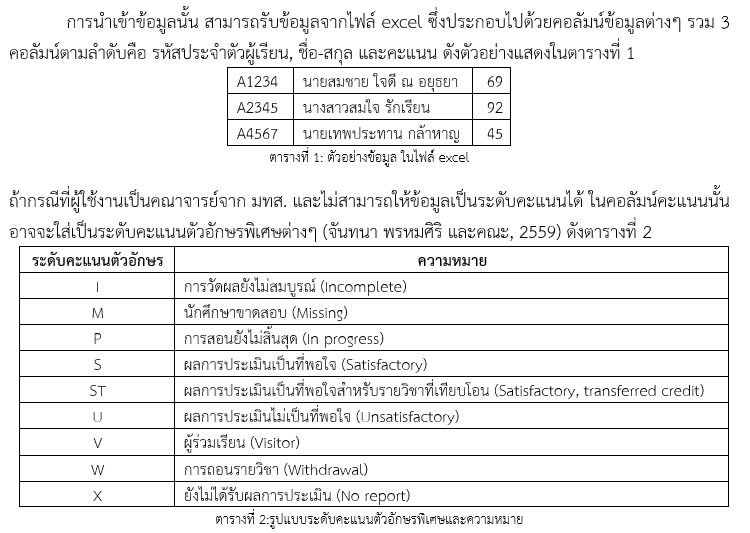
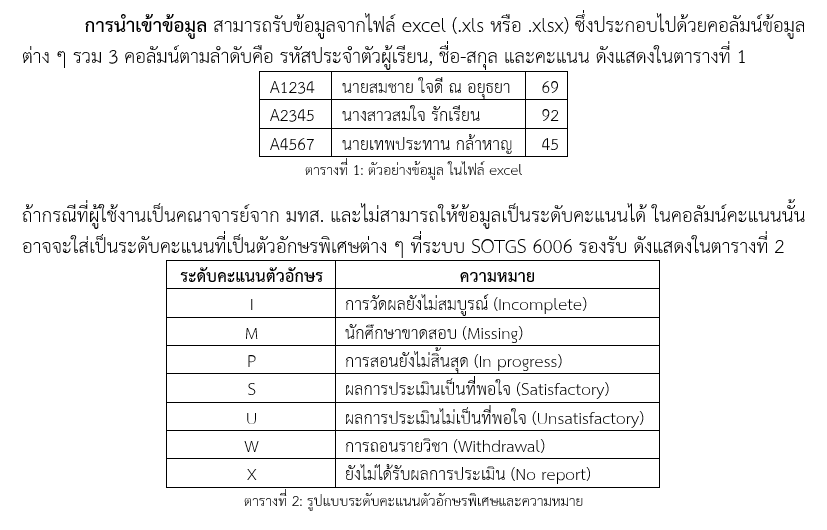
update

Changed region(s): [[0.0, 0.0, 0.9813, 0.9962]]

diff --git a/assets/style.css b/assets/style.css
@@ -95,26 +95,6 @@ li:active {
     background-color: #4CAF50;
 }
 
-@media screen and (max-width:900px) {
-    table.tb {
-        width: 80%;
-    }
-    #image {
-        width: 100%;
-        height: 100%;
-    }
-}
-
-@media screen and (max-width:600px) {
-    table.tb {
-        width: 90%;
-    }
-    #image {
-        width: 100%;
-        height: 100%;
-    }
-}
-
 .box {
     padding: 2px 6px;
     font-size: 14px;
@@ -212,7 +192,7 @@ li:active {
     /* Stay in place */
     z-index: 1;
     /* Sit on top */
-    padding: 20px 0px;
+    padding: 40px 0px;
     /* Location of the box */
     left: 0;
     top: 0;
@@ -236,7 +216,7 @@ li:active {
     margin: auto;
     padding: 8px;
     border: 1px solid #888;
-    width: 80%;
+    width: 70%;
     text-align: center;
 }
 
@@ -265,4 +245,34 @@ li:active {
 #example:hover {
     cursor: pointer;
     color: red;
+}
+
+@media screen and (max-width:1240px) {
+    #image {
+        width: 100%;
+        height: auto;
+    }
+}
+
+@media screen and (max-width:900px) {
+    table.tb {
+        width: 80%;
+    }
+    #image {
+        width: 100%;
+        height: auto;
+    }
+    .modal-content {
+        width: 90%;
+    }
+}
+
+@media screen and (max-width:600px) {
+    table.tb {
+        width: 90%;
+    }
+    #image {
+        width: 100%;
+        height: auto;
+    }
 }

diff --git a/assets/main.js b/assets/main.js
@@ -227,7 +227,7 @@ function validateForm() {
         txtSubId = "Course Code\n";
         txtSubject = "Course Title\n";
         txtTeacher = "Instructor \n";
-        txtFile = "\nPlease upload Excel file (.xlsx)\n";
+        txtFile = "\nPlease upload Excel file (.xlsx or .xls)\n";
         txtFill = "Please Fill : \n";
     } else {
         subId = document.getElementById('subId2');
@@ -237,7 +237,7 @@ function validateForm() {
         txtSubId = "รหัสวิชา\n";
         txtSubject = "ชื่อวิชา\n";
         txtTeacher = "ชื่อผู้สอน\n";
-        txtFile = "\nกรุณาอัพโหลดไฟล์ Excel (.xlsx)\n";
+        txtFile = "\nกรุณาอัพโหลดไฟล์ Excel (.xlsx หรือ .xls)\n";
         txtFill = "กรุณากรอกข้อมูล : \n";
     }
 

diff --git a/index.html b/index.html
@@ -89,6 +89,7 @@
                                 <option value="2">2</option>
                                 <option value="3">3</option>
                                 <option value="4">4</option>
+                                <option value="4">8</option>
                             </select>
                         </td>
                     </tr>
